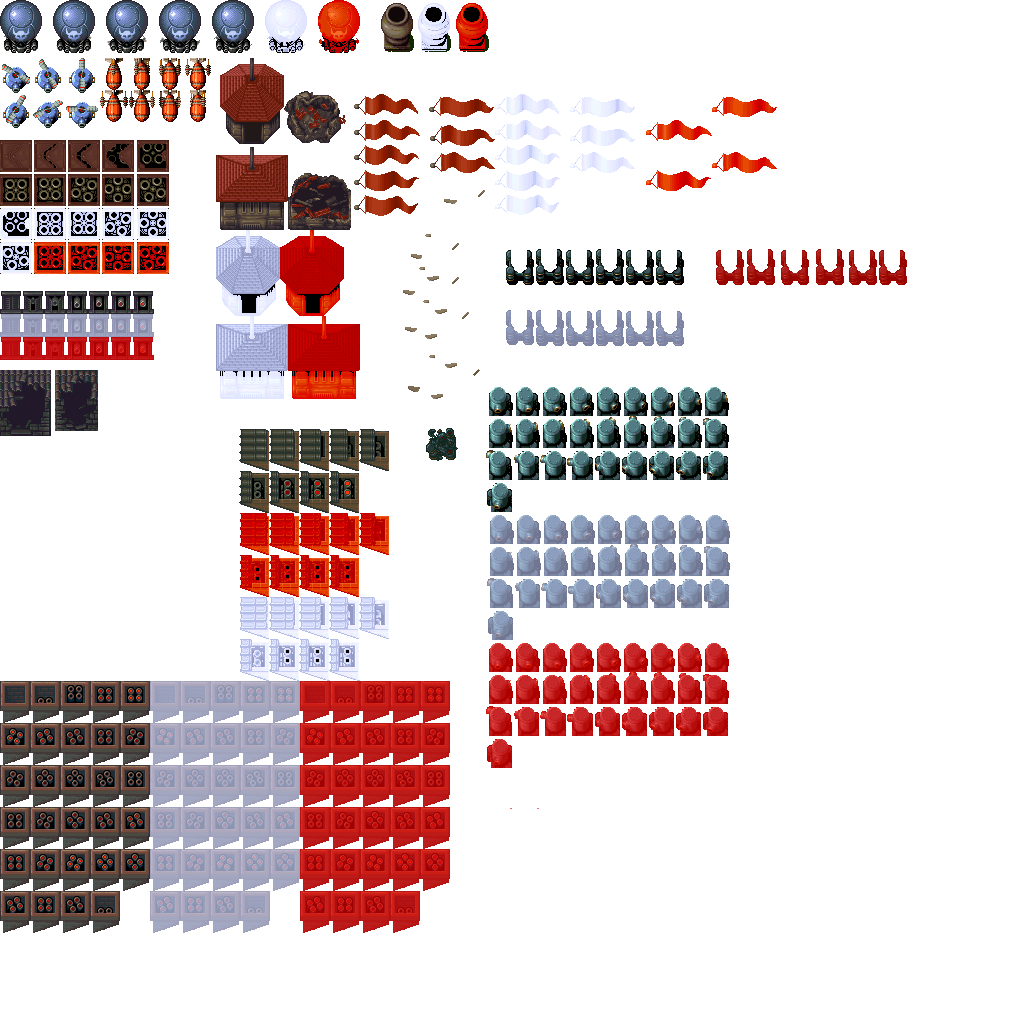
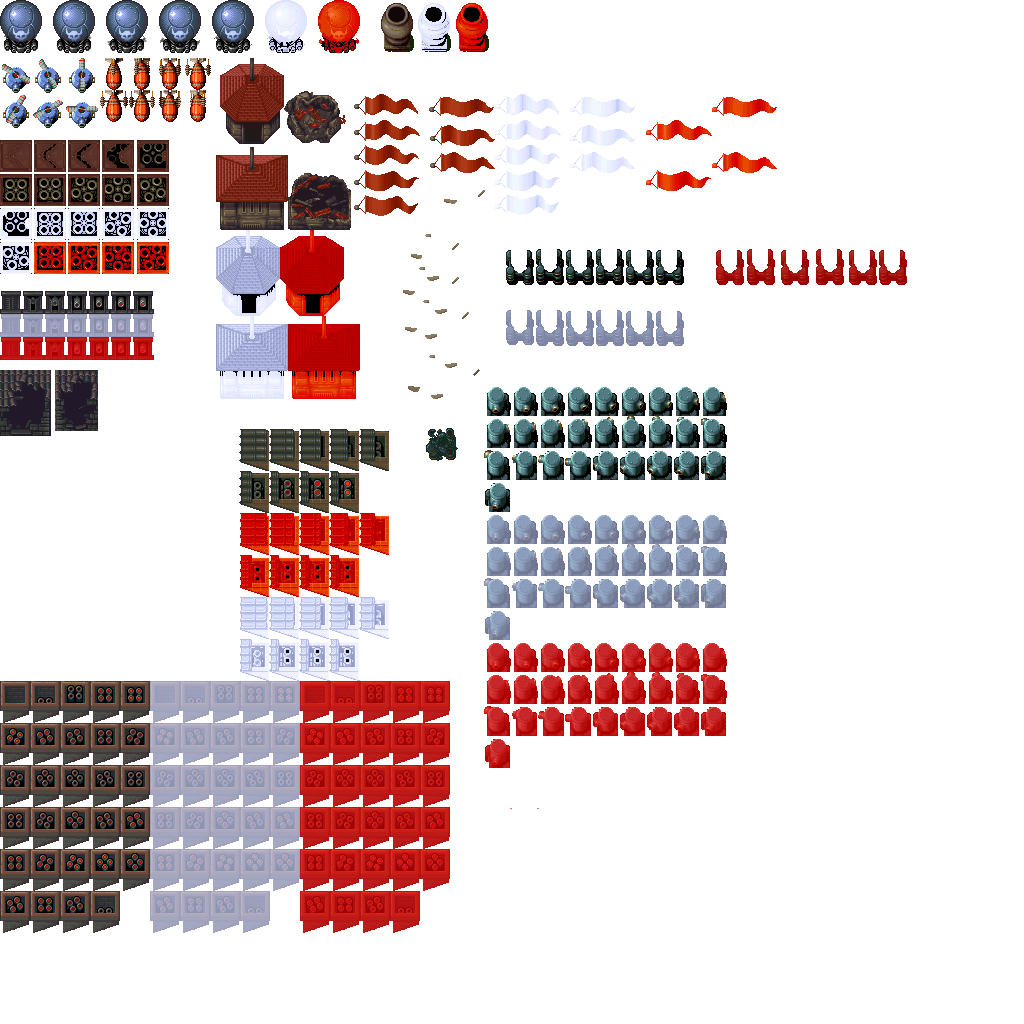
rotating turret fixed

Changed region(s): [[0.4688, 0.375, 0.7188, 0.75]]

diff --git a/gunbird/Enemy_RotatingTurret.cpp b/gunbird/Enemy_RotatingTurret.cpp
@@ -130,33 +130,33 @@ Enemy_RotatingTurret::Enemy_RotatingTurret(int x, int y, int option) : Enemy(x, 
 	upl6_hit.PushBack({ 538, 576, 27, 32 });
 	upl6_damaged.PushBack({ 538, 704, 27, 32 });
 
-	downr1.PushBack({ 565, 448, 27, 32 });
-	downr1_hit.PushBack({ 565, 576, 27, 32 });
-	downr1_damaged.PushBack({ 565, 704, 27, 32 });
+	left.PushBack({ 565, 448, 27, 32 });
+	left_hit.PushBack({ 565, 576, 27, 32 });
+	left_damaged.PushBack({ 565, 704, 27, 32 });
 
-	downr2.PushBack({ 592, 448, 27, 32 });
-	downr2_hit.PushBack({ 592, 576, 27, 32 });
-	downr2_damaged.PushBack({ 592, 704, 27, 32 });
+	leftd1.PushBack({ 592, 448, 27, 32 });
+	leftd1_hit.PushBack({ 592, 576, 27, 32 });
+	leftd1_damaged.PushBack({ 592, 704, 27, 32 });
 
-	downr3.PushBack({ 619, 448, 27, 32 });
-	downr3_hit.PushBack({ 619, 576, 27, 32 });
-	downr3_damaged.PushBack({ 619, 704, 27, 32 });
+	leftd2.PushBack({ 619, 448, 27, 32 });
+	leftd2_hit.PushBack({ 619, 576, 27, 32 });
+	leftd2_damaged.PushBack({ 619, 704, 27, 32 });
 
-	downr4.PushBack({ 647, 448, 27, 32 });
-	downr4_hit.PushBack({ 647, 576, 27, 32 });
-	downr4_damaged.PushBack({ 647, 704, 27, 32 });
+	leftd3.PushBack({ 647, 448, 27, 32 });
+	leftd3_hit.PushBack({ 647, 576, 27, 32 });
+	leftd3_damaged.PushBack({ 647, 704, 27, 32 });
 
-	downr5.PushBack({ 673, 448, 27, 32 });
-	downr5_hit.PushBack({ 673, 576, 27, 32 });
-	downr5_damaged.PushBack({ 673, 704, 27, 32 });
+	leftd4.PushBack({ 673, 448, 27, 32 });
+	leftd4_hit.PushBack({ 673, 576, 27, 32 });
+	leftd4_damaged.PushBack({ 673, 704, 27, 32 });
 
-	downr6.PushBack({ 700, 448, 27, 32 });
-	downr6_hit.PushBack({ 700, 576, 27, 32 });
-	downr6_damaged.PushBack({ 700, 704, 27, 32 });
+	leftd5.PushBack({ 700, 448, 27, 32 });
+	leftd5_hit.PushBack({ 700, 576, 27, 32 });
+	leftd5_damaged.PushBack({ 700, 704, 27, 32 });
 
-	downr7.PushBack({ 484, 480, 27, 32 });
-	downr7_hit.PushBack({ 484, 608, 27, 32 });
-	downr7_damaged.PushBack({ 484, 736, 27, 32 });
+	leftd6.PushBack({ 484, 480, 27, 32 });
+	leftd6_hit.PushBack({ 484, 608, 27, 32 });
+	leftd6_damaged.PushBack({ 484, 736, 27, 32 });
 
 	
 	collider = App->collision->AddCollider({ 0, 0, 28, 36 }, COLLIDER_TYPE::COLLIDER_ENEMY, (Module*)App->enemies);
@@ -179,7 +179,7 @@ Enemy_RotatingTurret::Enemy_RotatingTurret(int x, int y, int option) : Enemy(x, 
 	original_pos.y = y;
 
 	hp = 2.0f;
-
+	damaged_hp = 1.0f;
 	death_type = SMALL_ENEMY;
 	flying = false;
 	killscore = 500;
@@ -200,8 +200,10 @@ void Enemy_RotatingTurret::Move()
 	}
 	
 	
-	angle = AngleCalc(position, App->player->position);
+	angle = AngleCalc(App->player->position, position);
 
+	if (counter == 20)
+		counter = 0;
 
 	if (angle > 7.5 && angle <= 22.5)
 	{
@@ -263,7 +265,7 @@ void Enemy_RotatingTurret::Move()
 				aditional_animation = rightu5;
 		}
 	}
-	else if (angle > 95.625 && angle <= 106.875)
+	else if (angle > 82.5 && angle <= 96.43)
 	{
 		if (status == NORMAL) { aditional_animation = up; }
 		if (status == HIT) { aditional_animation = up_hit; }
@@ -275,7 +277,7 @@ void Enemy_RotatingTurret::Move()
 				aditional_animation = up;
 		}
 	}
-	else if (angle > 106.875 && angle <= 118.125)
+	else if (angle > 96.43 && angle <= 109.29)
 	{
 		if (status == NORMAL) { aditional_animation = upl1; }
 		if (status == HIT) { aditional_animation = upl1_hit; }
@@ -287,7 +289,7 @@ void Enemy_RotatingTurret::Move()
 				aditional_animation = upl1;
 		}
 	}
-	else if (angle > 118.125 && angle <= 129.375)
+	else if (angle > 109.29 && angle <= 122.15)
 	{
 		if (status == NORMAL) { aditional_animation = upl2; }
 		if (status == HIT) { aditional_animation = upl2_hit; }
@@ -299,7 +301,7 @@ void Enemy_RotatingTurret::Move()
 				aditional_animation = upl2;
 		}
 	}
-	else if (angle > 129.375 && angle <= 140.625)
+	else if (angle > 122.15 && angle <= 135.01)
 	{
 		if (status == NORMAL) { aditional_animation = upl3; }
 		if (status == HIT) { aditional_animation = upl3_hit; }
@@ -311,7 +313,7 @@ void Enemy_RotatingTurret::Move()
 				aditional_animation = upl3;
 		}
 	}
-	else if (angle > 140.625 && angle <= 151.875)
+	else if (angle > 135.01 && angle <= 147.87)
 	{
 		if (status == NORMAL) { aditional_animation = upl4; }
 		if (status == HIT) { aditional_animation = upl4_hit; }
@@ -323,7 +325,7 @@ void Enemy_RotatingTurret::Move()
 				aditional_animation = upl4;
 		}
 	}
-	else if (angle > 151.875 && angle <= 163.125)
+	else if (angle > 147.87 && angle <= 160.73)
 	{
 		if (status == NORMAL) { aditional_animation = upl5; }
 		if (status == HIT) { aditional_animation = upl5_hit; }
@@ -335,7 +337,7 @@ void Enemy_RotatingTurret::Move()
 				aditional_animation = upl5;
 		}
 	}
-	else if (angle > 163.125 && angle <= 174.375)
+	else if (angle > 160.73 && angle <= 173.59)
 	{
 		if (status == NORMAL) { aditional_animation = upl6; }
 		if (status == HIT) { aditional_animation = upl6_hit; }
@@ -347,7 +349,7 @@ void Enemy_RotatingTurret::Move()
 				aditional_animation = upl6;
 		}
 	}
-	else if (angle > 185.625 && angle <= 196.875)
+	else if (angle > 173,59 && angle <= 186.43)
 	{
 		if (status == NORMAL) { aditional_animation = left; }
 		if (status == HIT) { aditional_animation = left_hit; }
@@ -359,7 +361,7 @@ void Enemy_RotatingTurret::Move()
 				aditional_animation = left;
 		}
 	}
-	else if (angle > 196.875 && angle <= 208.125)
+	else if (angle > 186.43 && angle <= 199.29)
 	{
 		if (status == NORMAL) { aditional_animation = leftd1; }
 		if (status == HIT) { aditional_animation = leftd1_hit; }
@@ -371,7 +373,7 @@ void Enemy_RotatingTurret::Move()
 				aditional_animation = leftd1;
 		}
 	}
-	else if (angle > 208.125 && angle <= 219.375)
+	else if (angle > 199.29 && angle <= 212.15)
 	{
 		if (status == NORMAL) { aditional_animation = leftd2; }
 		if (status == HIT) { aditional_animation = leftd2_hit; }
@@ -383,7 +385,7 @@ void Enemy_RotatingTurret::Move()
 				aditional_animation = leftd2;
 		}
 	}
-	else if (angle > 219.375 && angle <= 230.625)
+	else if (angle > 212.15 && angle <= 225.01)
 	{
 		if (status == NORMAL) { aditional_animation = leftd3; }
 		if (status == HIT) { aditional_animation = leftd3_hit; }
@@ -395,7 +397,7 @@ void Enemy_RotatingTurret::Move()
 				aditional_animation = leftd3;
 		}
 	}
-	else if (angle > 230.625 && angle <= 241.875)
+	else if (angle > 225.01 && angle <= 237.87)
 	{
 		if (status == NORMAL) { aditional_animation = leftd4; }
 		if (status == HIT) { aditional_animation = leftd4_hit; }
@@ -407,7 +409,7 @@ void Enemy_RotatingTurret::Move()
 				aditional_animation = leftd4;
 		}
 	}
-	else if (angle > 241.875 && angle <= 253.125)
+	else if (angle > 237.87 && angle <= 250.73)
 	{
 		if (status == NORMAL) { aditional_animation = leftd5; }
 		if (status == HIT) { aditional_animation = leftd5_hit; }
@@ -419,7 +421,7 @@ void Enemy_RotatingTurret::Move()
 				aditional_animation = leftd5;
 		}
 	}
-	else if (angle > 253.125 && angle <= 264.375)
+	else if (angle > 250.73 && angle <= 263.59)
 	{
 		if (status == NORMAL) { aditional_animation = leftd6; }
 		if (status == HIT) { aditional_animation = leftd6_hit; }
@@ -431,7 +433,7 @@ void Enemy_RotatingTurret::Move()
 				aditional_animation = leftd6;
 		}
 	}
-	else if (angle > 264.375 && angle <= 196.875)
+	else if (angle > 263.59 && angle <= 275.625)
 	{
 		if (status == NORMAL) { aditional_animation = down; }
 		if (status == HIT) { aditional_animation = down_hit; }
@@ -443,7 +445,7 @@ void Enemy_RotatingTurret::Move()
 				aditional_animation = down;
 		}
 	}
-	else if (angle > 276.43 && angle <= 289.29)
+	else if (angle > 275.625 && angle <= 286.875)
 	{
 		if (status == NORMAL) { aditional_animation = downr1; }
 		if (status == HIT) { aditional_animation = downr1_hit; }
@@ -455,7 +457,7 @@ void Enemy_RotatingTurret::Move()
 				aditional_animation = downr1;
 		}
 	}
-	else if (angle > 276.43 && angle <= 289.29)
+	else if (angle > 286.875 && angle <= 298.125)
 	{
 		if (status == NORMAL) { aditional_animation = downr2; }
 		if (status == HIT) { aditional_animation = downr2_hit; }
@@ -467,7 +469,7 @@ void Enemy_RotatingTurret::Move()
 				aditional_animation = downr2;
 		}
 	}
-	else if (angle > 289.29 && angle <= 302.15)
+	else if (angle > 298.125 && angle <= 309.375)
 	{
 		if (status == NORMAL) { aditional_animation = downr3; }
 		if (status == HIT) { aditional_animation = downr3_hit; }
@@ -479,7 +481,7 @@ void Enemy_RotatingTurret::Move()
 				aditional_animation = downr3;
 		}
 	}
-	else if (angle > 302.15 && angle <= 315.01)
+	else if (angle > 309.375 && angle <= 320.625)
 	{
 		if (status == NORMAL) { aditional_animation = downr4; }
 		if (status == HIT) { aditional_animation = downr4_hit; }
@@ -491,7 +493,7 @@ void Enemy_RotatingTurret::Move()
 				aditional_animation = downr4;
 		}
 	}
-	else if (angle > 315.01 && angle <= 327.87)
+	else if (angle > 320.625 && angle <= 331.875)
 	{
 		if (status == NORMAL) { aditional_animation = downr5; }
 		if (status == HIT) { aditional_animation = downr5_hit; }
@@ -503,7 +505,7 @@ void Enemy_RotatingTurret::Move()
 				aditional_animation = downr5;
 		}
 	}
-	else if (angle > 327.87 && angle <= 340.73)
+	else if (angle > 331.875 && angle <= 343.125)
 	{
 		if (status == NORMAL) { aditional_animation = downr6; }
 		if (status == HIT) { aditional_animation = downr6_hit; }
@@ -515,7 +517,7 @@ void Enemy_RotatingTurret::Move()
 				aditional_animation = downr6;
 		}
 	}
-	else if (angle > 340.73 && angle <= 353.59)
+	else if (angle > 343.125 && angle <= 354.375)
 	{
 		if (status == NORMAL) { aditional_animation = downr7; }
 		if (status == HIT) { aditional_animation = downr7_hit; }
@@ -541,17 +543,16 @@ void Enemy_RotatingTurret::Move()
 	}
 
 	counter++;
-	if (counter == 20)counter = 0;
+	
 }
 
 void Enemy_RotatingTurret::Extra_animation()
 {
-	if (status == NORMAL)
-	{
+	
 		App->render->Blit(App->enemies->sprites, position.x - 1, position.y - 10, &aditional_animation.GetCurrentFrame());
 		//flag2.GetCurrentFrame();
 		//flag3.GetCurrentFrame();
-	}
+
 	/*if (status == HIT)
 	{
 		App->render->Blit(App->enemies->sprites, position.x + 29, position.y - 15, &flag2.GetCurrentFrame());

diff --git a/gunbird/Enemy.cpp b/gunbird/Enemy.cpp
@@ -47,7 +47,7 @@ fPoint Enemy::ShootCalculator(iPoint position, iPoint player)
 
 float Enemy::AngleCalc(iPoint position, iPoint player)
 {
-	int module;
+	float module;
 	fPoint distance;
 	float angle;
 
@@ -64,9 +64,9 @@ float Enemy::AngleCalc(iPoint position, iPoint player)
 
 	angle *= 180 / PI;
 
-	if (position.x < player.x && position.y >= player.y)
-		angle = 360 - angle;
 	if (position.x >= player.x && position.y >= player.y)
+		angle = 360 - angle;
+	if (position.x < player.x && position.y >= player.y)
 		angle = 180 + angle;
 	if (position.x < player.x && position.y < player.y)
 		angle = 180 - angle;
